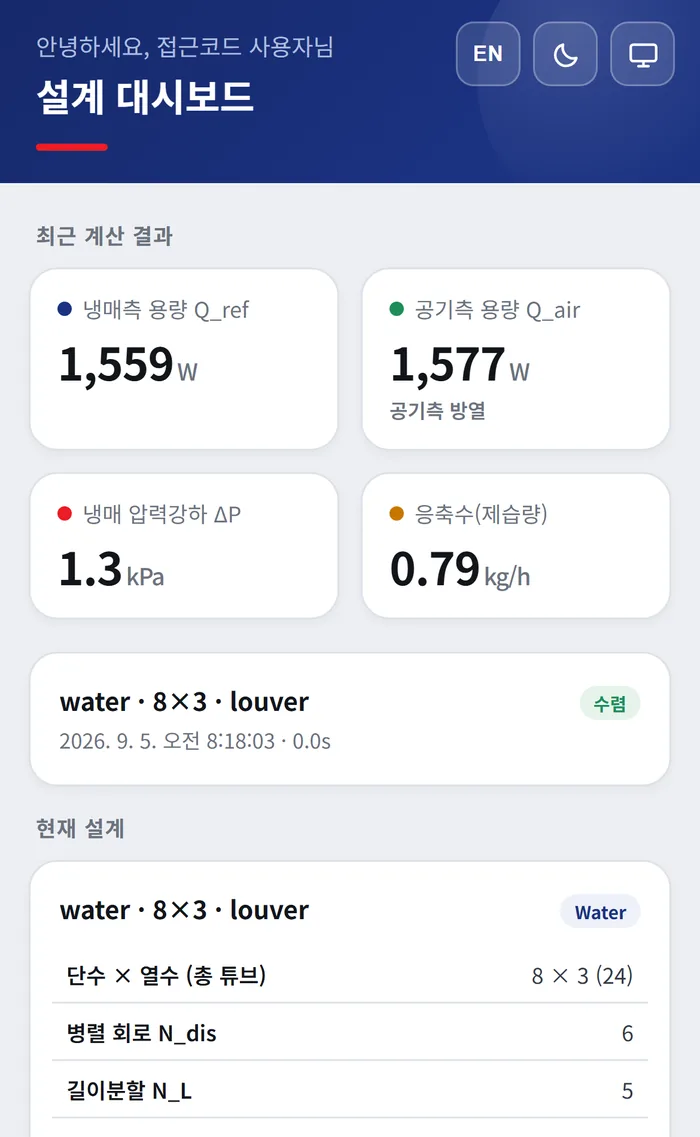
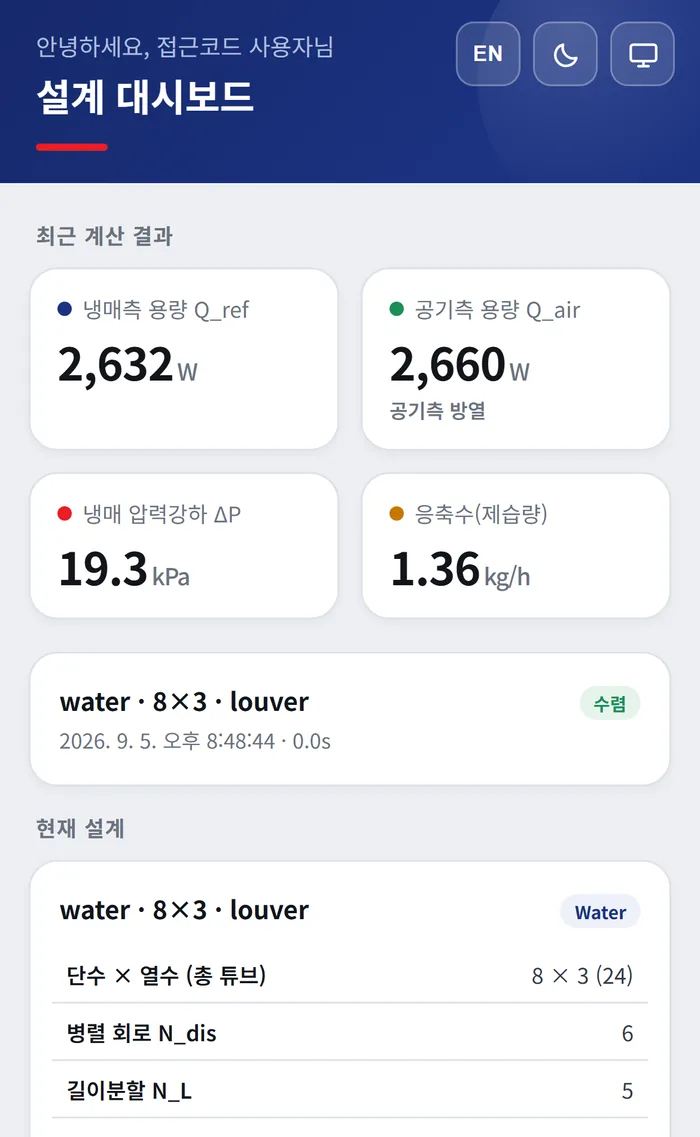
시범 케이스 50 kg/min 판으로 화면 자산 갱신 · ⑤는 결과 화면 전체(배관별 유량표 포함)
- result1.webp 1400×1166(전체 화면, 헤더 띠 없음) · result2 1400×1421 · mobile/fluid/hero/dimension 재촬영본.
- KPI: Q_ref 2,632 W · Q_air 2,660 W · ΔP_ref 19.3 kPa · 제습량 1.36 kg/h (물 5℃ · 50 kg/min · 300 CMH).

Claude-Session: https://claude.ai/code/session_01JxU6DdP1SgL5ASFVLT5aca

diff --git a/m.html b/m.html
@@ -342,7 +342,7 @@ h2{margin:0; font-size:21px; line-height:1.3; font-weight:800; letter-spacing:-.
           <li>결과는 습공기선도·P-h 선도와 회로별 유량 분배로 함께 제시됩니다.</li>
         </ul>
         <figure class="shot">
-          <img src="assets/result1.webp" width="1400" height="932" loading="lazy"
+          <img src="assets/result1.webp" width="1400" height="1166" loading="lazy"
                alt="성능 요약 화면 — 용량과 압력강하 KPI, 습공기선도, P-h 선도가 배치되어 있다.">
           <figcaption>⑤ 결과 ① — 성능 요약 · 용량 · 압력강하 · 제습량</figcaption>
         </figure>

diff --git a/index.html b/index.html
@@ -540,7 +540,7 @@ h2{
           </ul>
         </div>
         <figure class="shot">
-          <img src="assets/result1.webp" width="1400" height="932" loading="lazy"
+          <img src="assets/result1.webp" width="1400" height="1166" loading="lazy"
                alt="성능 요약 화면 — 용량과 압력강하 KPI, 습공기선도, P-h 선도가 배치되어 있다.">
           <figcaption>⑤ 결과 ① — 성능 요약 · 용량 · 압력강하 · 제습량</figcaption>
         </figure>
